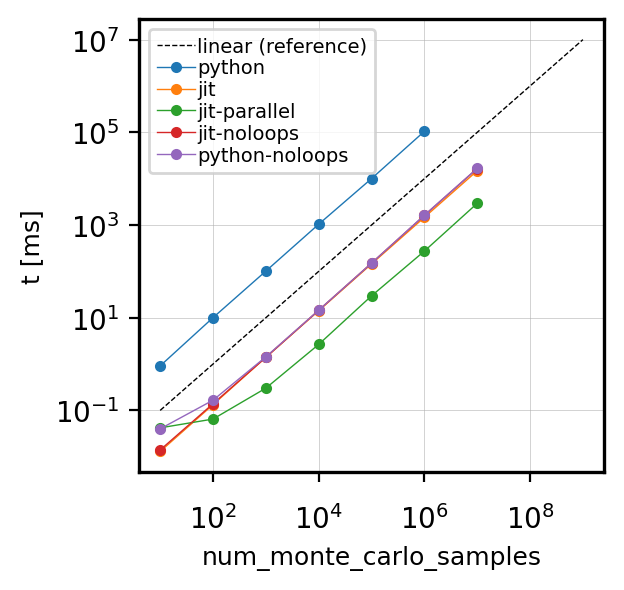
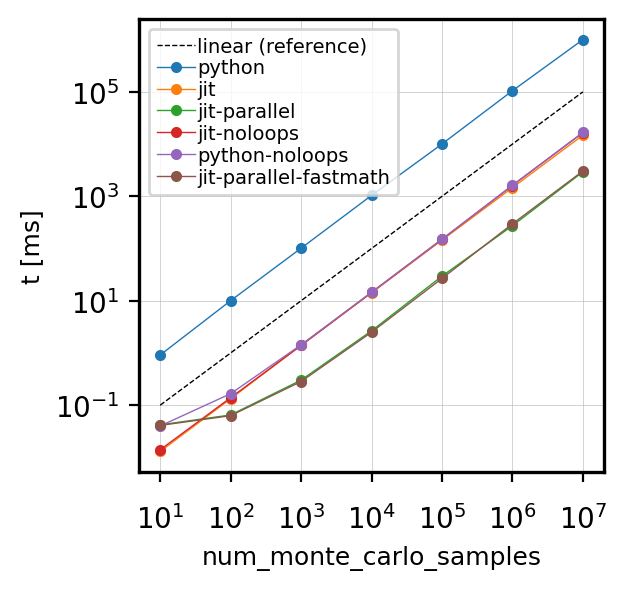
[simulator] Add simulator 5: jit-parallel-fastmath, benchmark, timings

diff --git a/oasishurricane/simulator.py b/oasishurricane/simulator.py
@@ -205,6 +205,46 @@ def mean_loss_noloops_py(florida_landfall_rate, florida_mean, florida_stddev,
     return tot_loss / num_monte_carlo_samples
 
 
+@timer(cycles=int(os.getenv("TIMEIT_CYCLES", 100)))
+@njit("float64(float64, float64, float64, float64, float64, float64, int64)",
+      parallel=True, fastmath=True, nogil=True)
+def mean_loss_jit_parallel_fastmath(florida_landfall_rate, florida_mean, florida_stddev,
+                                    gulf_landfall_rate, gulf_mean, gulf_stddev,
+                                    num_monte_carlo_samples):
+    """
+    Compute mean economic loss with explicit loops, jit-compilation, and auto-parallelization with numba.
+
+    :param florida_landfall_rate: [float] annual rate of landfalling hurricanes in Florida.
+    :param florida_mean: [float] mean of the economic loss of landfalling hurricane in Florida.
+    :param florida_stddev:  [float] std deviation of the economic loss of landfalling hurricane in Florida.
+    :param gulf_landfall_rate:  [float] annual rate of landfalling hurricanes in Gulf states.
+    :param gulf_mean:  [float] mean of the economic loss of landfalling hurricane in Gulf states.
+    :param gulf_stddev: [float] std deviation of the economic loss of landfalling hurricane in Gulf states.
+    :param num_monte_carlo_samples: [int] Number of monte carlo samples, i.e. years.
+
+    :return: [float] Mean annual losses.
+
+    """
+    fl_events = np.random.poisson(lam=florida_landfall_rate, size=num_monte_carlo_samples)
+    gulf_events = np.random.poisson(lam=gulf_landfall_rate, size=num_monte_carlo_samples)
+
+    tot_loss = 0
+    for i in prange(num_monte_carlo_samples):
+        fl_loss = 0
+        for j in range(fl_events[i]):
+            fl_loss += np.random.lognormal(florida_mean, florida_stddev)
+
+        gulf_loss = 0
+        for k in range(gulf_events[i]):
+            gulf_loss += np.random.lognormal(gulf_mean, gulf_stddev)
+
+        year_loss = fl_loss + gulf_loss
+
+        tot_loss += year_loss
+
+    return tot_loss / num_monte_carlo_samples
+
+
 SIMULATORS = {
     0: {
         'func': mean_loss_py,
@@ -225,6 +265,10 @@ SIMULATORS = {
     4: {
         'func': mean_loss_noloops_py,
         'desc': "python-noloops"
+    },
+    5: {
+        'func': mean_loss_jit_parallel_fastmath,
+        'desc': "jit-parallel-fastmath"
     },
 }
 
